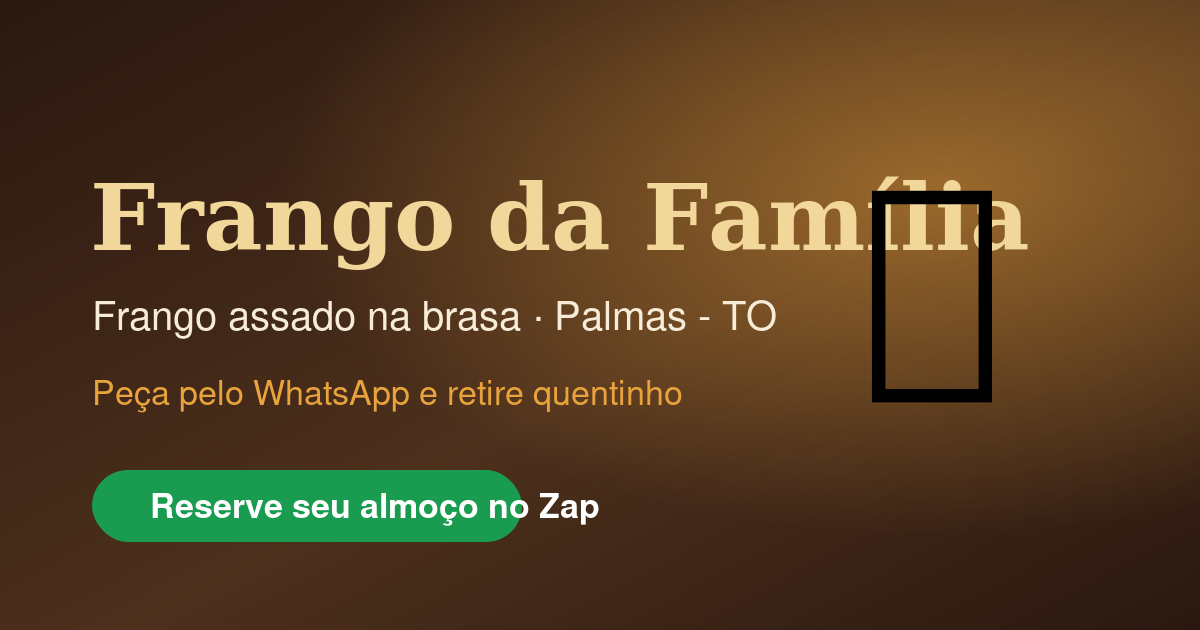
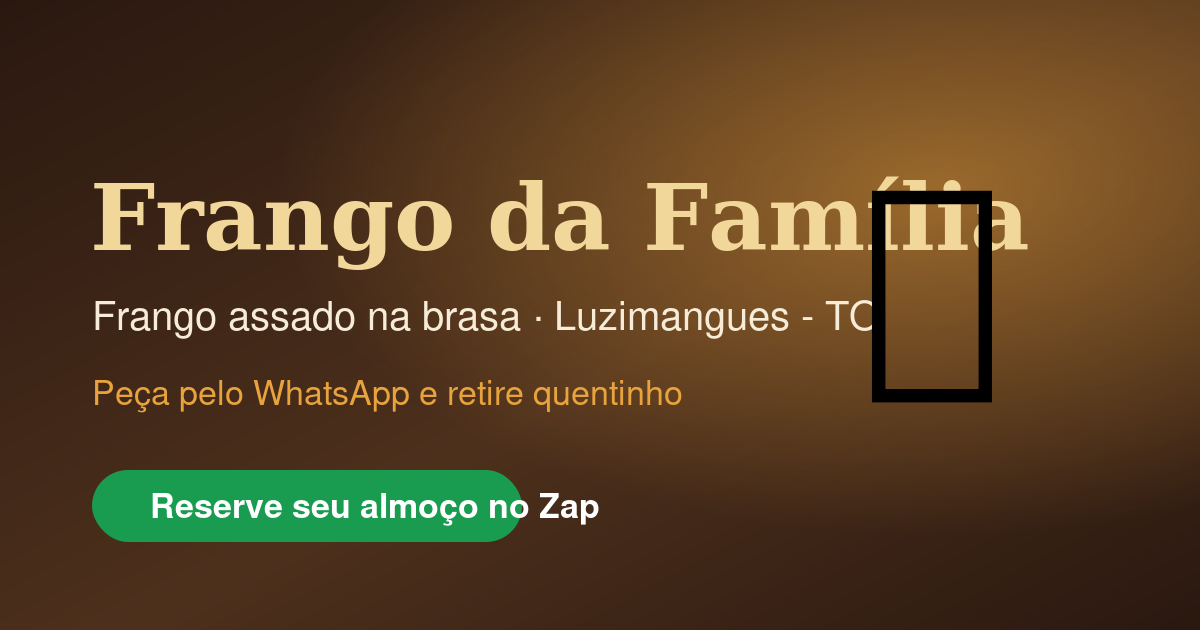
Corrige localização: Luzimangues, Porto Nacional - TO (SEO, schema, OG)

Changed region(s): [[0.4625, 0.4524, 0.74, 0.5429]]

diff --git a/src/styles/global.css b/src/styles/global.css
@@ -150,7 +150,7 @@ section[id],.cat[id]{scroll-margin-top:130px}
 .hours li{display:flex;justify-content:space-between;gap:1rem;padding:.45rem 0;border-bottom:1px dashed rgba(255,255,255,.15);font-size:.95rem}
 .hours li:last-child{border:none}
 .hours .h{font-weight:700;color:var(--gold)}
-.info-card .addr{margin:0 0 12px;color:#e6d3bd}
+.info-card .addr{margin:0 0 12px;color:#e6d3bd;white-space:pre-line}
 .info .map{width:100%;height:210px;border:0;border-radius:var(--radius);filter:saturate(.9)}
 
 /* Footer */
